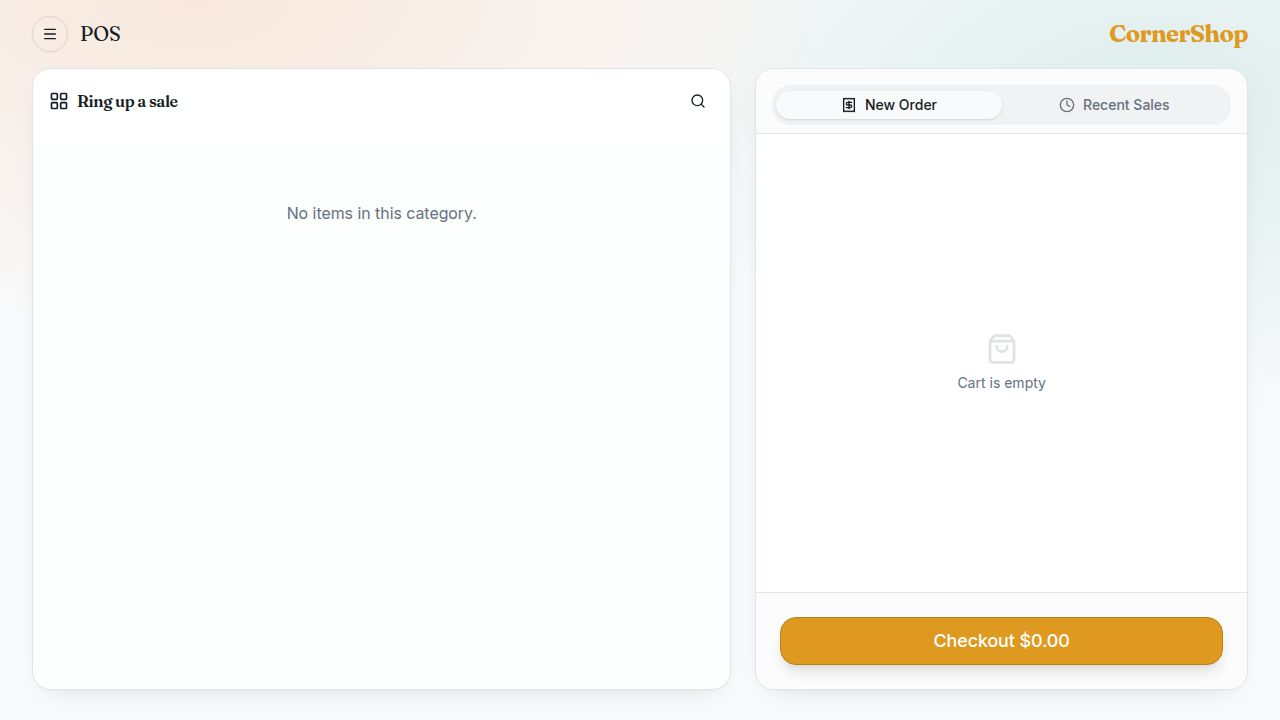
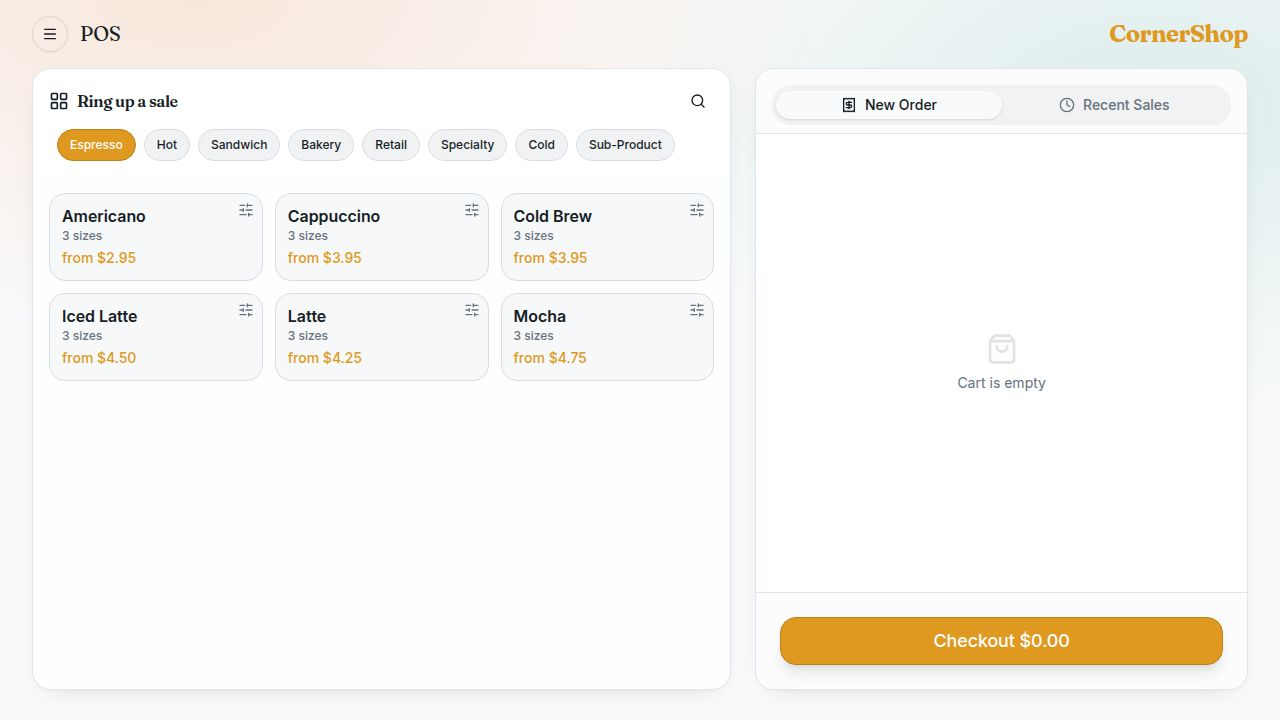
Display ongoing orders as stylized receipts with customer names and timestamps
Add a new `OrderReceipts` component to display ongoing orders at the top of the POS screen. This includes storing and displaying customer names and order timestamps. The backend schema and database migrations are updated to support these new fields, and a new `updateSale` function is added to the store for managing order closures.

Replit-Commit-Author: Agent
Replit-Commit-Session-Id: 9aa83789-9c17-410e-a3e4-f0fd4ca17b6d
Replit-Commit-Checkpoint-Type: full_checkpoint
Replit-Commit-Event-Id: f9f89423-a181-4096-9a3d-6fe7ab0dafe6
Replit-Commit-Screenshot-Url: https://storage.googleapis.com/screenshot-production-us-central1/4710a650-8e96-41ee-a11f-932c0bb5f92b/9aa83789-9c17-410e-a3e4-f0fd4ca17b6d/sK3vgJ8
Replit-Helium-Checkpoint-Created: true

diff --git a/client/src/components/order-receipts.tsx b/client/src/components/order-receipts.tsx
@@ -1,0 +1,166 @@
+import { useState } from "react";
+import { motion, AnimatePresence } from "framer-motion";
+import { X } from "lucide-react";
+import { Button } from "@/components/ui/button";
+import type { Sale } from "@/lib/store";
+import { format } from "date-fns";
+
+function formatMoney(cents: number) {
+  return new Intl.NumberFormat(undefined, {
+    style: "currency",
+    currency: "USD",
+  }).format(cents / 100);
+}
+
+function ReceiptTab({
+  sale,
+  index,
+  onClose,
+}: {
+  sale: Sale;
+  index: number;
+  onClose: (id: string) => void;
+}) {
+  const [expanded, setExpanded] = useState(false);
+
+  const label = `R${index + 1}`;
+  const namePreview = sale.customerName
+    ? sale.customerName.length > 5
+      ? sale.customerName.slice(0, 5) + "…"
+      : sale.customerName
+    : label;
+
+  return (
+    <div className="relative flex flex-col items-center" data-testid={`receipt-tab-${sale.id}`}>
+      <div className="w-10 h-3 bg-amber-700/80 rounded-b-sm shadow-sm z-10" />
+
+      <div className="w-[2px] h-2 bg-amber-900/40" />
+
+      <AnimatePresence mode="wait">
+        {!expanded ? (
+          <motion.button
+            key="collapsed"
+            initial={{ height: 0, opacity: 0 }}
+            animate={{ height: "auto", opacity: 1 }}
+            exit={{ height: 0, opacity: 0 }}
+            transition={{ duration: 0.2 }}
+            onClick={() => setExpanded(true)}
+            className="cursor-pointer group"
+            data-testid={`receipt-collapsed-${sale.id}`}
+          >
+            <div
+              className="relative bg-amber-50 border border-amber-200/60 shadow-md px-2.5 py-2 min-w-[56px] text-center"
+              style={{
+                clipPath: "polygon(0 0, 100% 0, 100% calc(100% - 6px), 85% 100%, 70% calc(100% - 4px), 55% 100%, 40% calc(100% - 4px), 25% 100%, 10% calc(100% - 6px), 0 calc(100% - 3px))",
+              }}
+            >
+              <p className="text-[10px] font-bold text-amber-900/70 tracking-wide">{label}</p>
+              <p className="text-[9px] text-amber-800/60 mt-0.5 font-medium truncate max-w-[52px]">{namePreview}</p>
+            </div>
+          </motion.button>
+        ) : (
+          <motion.div
+            key="expanded"
+            initial={{ height: 0, opacity: 0 }}
+            animate={{ height: "auto", opacity: 1 }}
+            exit={{ height: 0, opacity: 0 }}
+            transition={{ duration: 0.25, ease: "easeOut" }}
+            className="z-20"
+            data-testid={`receipt-expanded-${sale.id}`}
+          >
+            <div
+              className="relative bg-amber-50 border border-amber-200/60 shadow-lg w-[180px]"
+              style={{
+                clipPath: "polygon(0 0, 100% 0, 100% calc(100% - 8px), 90% 100%, 80% calc(100% - 5px), 70% 100%, 60% calc(100% - 5px), 50% 100%, 40% calc(100% - 5px), 30% 100%, 20% calc(100% - 5px), 10% 100%, 0 calc(100% - 8px))",
+              }}
+            >
+              <div className="px-3 pt-2 pb-1 border-b border-dashed border-amber-300/50">
+                <div className="flex items-center justify-between">
+                  <p className="text-xs font-bold text-amber-900">{label}</p>
+                  <button
+                    onClick={(e) => { e.stopPropagation(); setExpanded(false); }}
+                    className="text-amber-600 hover:text-amber-900 transition-colors"
+                    data-testid={`receipt-minimize-${sale.id}`}
+                  >
+                    <X className="h-3 w-3" />
+                  </button>
+                </div>
+                <p className="text-[11px] font-semibold text-amber-800 mt-0.5 truncate">
+                  {sale.customerName || "Guest"}
+                </p>
+                <p className="text-[9px] text-amber-600 mt-0.5">
+                  {format(sale.createdAt, "h:mm a")}
+                </p>
+              </div>
+
+              <div className="px-3 py-1.5 space-y-0.5 max-h-[120px] overflow-y-auto">
+                {sale.linesJson.map((line, i) => (
+                  <div key={i} className="flex justify-between text-[10px] text-amber-900/80">
+                    <span className="truncate flex-1 mr-1">
+                      {line.qty > 1 && `${line.qty}x `}{line.productName}
+                      {line.variantName && line.variantName !== line.productName && ` (${line.variantName})`}
+                    </span>
+                    <span className="font-medium shrink-0">{formatMoney(line.unitPrice * line.qty)}</span>
+                  </div>
+                ))}
+              </div>
+
+              <div className="px-3 py-1 border-t border-dashed border-amber-300/50">
+                <div className="flex justify-between text-[11px] font-bold text-amber-900">
+                  <span>Total</span>
+                  <span>{formatMoney(sale.totalCents)}</span>
+                </div>
+              </div>
+
+              <div className="px-3 pt-1 pb-4">
+                <Button
+                  size="sm"
+                  variant="destructive"
+                  className="w-full h-6 text-[10px] rounded-md"
+                  onClick={(e) => { e.stopPropagation(); onClose(sale.id); }}
+                  data-testid={`receipt-close-order-${sale.id}`}
+                >
+                  Close Order
+                </Button>
+              </div>
+            </div>
+          </motion.div>
+        )}
+      </AnimatePresence>
+    </div>
+  );
+}
+
+export default function OrderReceipts({
+  sales,
+  onCloseOrder,
+}: {
+  sales: Sale[];
+  onCloseOrder: (id: string) => void;
+}) {
+  const openOrders = sales
+    .filter(s => !s.closedAt && s.status === "completed")
+    .sort((a, b) => a.createdAt - b.createdAt);
+
+  if (openOrders.length === 0) return null;
+
+  return (
+    <div className="mb-3" data-testid="order-receipts-rail">
+      <div className="relative bg-gradient-to-b from-amber-900/90 to-amber-800/80 rounded-lg shadow-md px-3 pt-0 pb-0 min-h-[12px]">
+        <div className="absolute inset-x-0 top-0 h-[6px] bg-amber-950/30 rounded-t-lg" />
+        <div className="absolute inset-x-0 top-[6px] h-[3px] bg-amber-700/20" />
+      </div>
+
+      <div className="flex gap-3 px-2 overflow-x-auto scrollbar-hide -mt-[1px]">
+        {openOrders.map((sale, i) => (
+          <ReceiptTab
+            key={sale.id}
+            sale={sale}
+            index={i}
+            onClose={onCloseOrder}
+          />
+        ))}
+      </div>
+    </div>
+  );
+}

diff --git a/client/src/pages/pos.tsx b/client/src/pages/pos.tsx
@@ -12,6 +12,7 @@ import { Tabs, TabsContent, TabsList, TabsTrigger } from "@/components/ui/tabs";
 import { useToast } from "@/hooks/use-toast";
 import { useStore, type CartItem } from "@/lib/store";
 import ModifierSelector, { type SelectedModifier } from "@/components/modifier-selector";
+import OrderReceipts from "@/components/order-receipts";
 import { format } from "date-fns";
 
 function formatMoney(cents: number) {
@@ -29,7 +30,7 @@ export default function PosPage() {
   const { toast } = useToast();
   const {
     products, variants, inventory, bom, sales, modifierGroups, modifiers,
-    productModifierLinks, productModifierScaleFactors, addSale, adjustInventory, integrations, isLoading,
+    productModifierLinks, productModifierScaleFactors, addSale, updateSale, adjustInventory, integrations, isLoading,
   } = useStore();
 
   const [taxRatePct, setTaxRatePct] = useState(8.25);
@@ -42,6 +43,8 @@ export default function PosPage() {
 
   const [sizeSelectorOpen, setSizeSelectorOpen] = useState(false);
   const [sizeSelectorProduct, setSizeSelectorProduct] = useState<typeof products[0] | null>(null);
+
+  const [customerName, setCustomerName] = useState("");
 
   const [searchOpen, setSearchOpen] = useState(false);
   const [searchQuery, setSearchQuery] = useState("");
@@ -210,6 +213,11 @@ export default function PosPage() {
   const taxCents = Math.round((subtotalCents * taxRatePct) / 100);
   const totalCents = subtotalCents + taxCents;
 
+  function handleCloseOrder(saleId: string) {
+    updateSale(saleId, { closedAt: Date.now() });
+    toast({ title: "Order closed" });
+  }
+
   function handleConfirmOrder() {
     if (cart.length === 0) {
       toast({ title: "Cart is empty", description: "Add items first." });
@@ -311,6 +319,8 @@ export default function PosPage() {
       totalCents,
       paymentMethod: paymentType,
       status: "completed",
+      customerName: customerName.trim(),
+      closedAt: null,
       linesJson: cart.map(c => {
         const prod = products.find(p => p.id === c.productId);
         const vari = variants.find(v => v.id === c.variantId);
@@ -336,6 +346,7 @@ export default function PosPage() {
 
     toast({ title: "Sale recorded", description: `${formatMoney(totalCents)} • ${paymentType}` });
     clearCart();
+    setCustomerName("");
     setIsPaymentOpen(false);
   }
 
@@ -350,6 +361,7 @@ export default function PosPage() {
   return (
     <motion.div initial={{ opacity: 0, y: 10 }} animate={{ opacity: 1, y: 0 }} transition={{ duration: 0.35 }}>
       <AppShell title="POS">
+        <OrderReceipts sales={sales} onCloseOrder={handleCloseOrder} />
         <div className="grid gap-6 lg:grid-cols-12 h-[calc(100vh-90px)] pb-2">
           <Card className="border bg-card shadow-soft lg:col-span-7 flex flex-col overflow-hidden h-full">
             <CardHeader className="pb-3 flex-shrink-0 pt-4 px-4">
@@ -670,6 +682,16 @@ export default function PosPage() {
               <DialogTitle>Confirm Payment</DialogTitle>
             </DialogHeader>
             <div className="py-6 flex flex-col gap-6">
+              <div>
+                <label className="text-xs text-muted-foreground uppercase tracking-wider mb-1.5 block">Name on Order</label>
+                <Input
+                  value={customerName}
+                  onChange={e => setCustomerName(e.target.value)}
+                  placeholder="Customer name (optional)"
+                  className="rounded-xl"
+                  data-testid="input-customer-name"
+                />
+              </div>
               <div className="text-center">
                 <p className="text-sm text-muted-foreground uppercase tracking-wider">Total Due</p>
                 <p className="text-4xl font-serif mt-1">{formatMoney(totalCents)}</p>

diff --git a/client/src/lib/store.tsx b/client/src/lib/store.tsx
@@ -92,6 +92,7 @@ type StoreContextType = {
   updateTimePunch: (id: string, data: Partial<TimePunch>) => void;
 
   addSale: (data: Partial<Sale>) => void;
+  updateSale: (id: string, data: Partial<Sale>) => void;
 
   createInvoiceWithLineItems: (invoiceData: Partial<Invoice>, lineItems: Partial<InvoiceLineItem>[]) => Promise<any>;
   createInvoiceLineItem: (data: Partial<InvoiceLineItem>) => Promise<any>;
@@ -189,6 +190,7 @@ export function StoreProvider({ children }: { children: React.ReactNode }) {
   const updateTimePunch = useCallback((id: string, data: Partial<TimePunch>) => { storage.updateTimePunch(id, data); }, []);
 
   const addSale = useCallback((data: Partial<Sale>) => { storage.createSale(data); }, []);
+  const updateSale = useCallback((id: string, data: Partial<Sale>) => { storage.updateSale(id, data); }, []);
 
   const createInvoiceWithLineItems = useCallback((invoiceData: Partial<Invoice>, lineItems: Partial<InvoiceLineItem>[]) => storage.createInvoiceWithLineItems(invoiceData, lineItems), []);
   const createInvoiceLineItem = useCallback((data: Partial<InvoiceLineItem>) => storage.createInvoiceLineItem(data), []);
@@ -264,6 +266,7 @@ export function StoreProvider({ children }: { children: React.ReactNode }) {
     updateTimePunch,
 
     addSale,
+    updateSale,
 
     createInvoiceWithLineItems,
     createInvoiceLineItem,

diff --git a/client/src/lib/db.ts b/client/src/lib/db.ts
@@ -133,6 +133,8 @@ export interface Sale {
   paymentMethod: string;
   status: string;
   linesJson: SaleLine[];
+  customerName: string;
+  closedAt: number | null;
   updatedAt: number;
   deletedAt: number | null;
 }
@@ -338,6 +340,13 @@ class PosDatabase extends Dexie {
         if (item.lastPurchasePrice === undefined) {
           item.lastPurchasePrice = null;
         }
+      });
+    });
+
+    this.version(6).stores({}).upgrade(async tx => {
+      await tx.table("sales").toCollection().modify(sale => {
+        if (sale.customerName === undefined) sale.customerName = "";
+        if (sale.closedAt === undefined) sale.closedAt = sale.createdAt;
       });
     });
   }

diff --git a/client/src/lib/local-storage.ts b/client/src/lib/local-storage.ts
@@ -368,11 +368,18 @@ export const storage = {
       paymentMethod: data.paymentMethod!,
       status: data.status!,
       linesJson: data.linesJson!,
+      customerName: data.customerName ?? "",
+      closedAt: data.closedAt ?? null,
       updatedAt: data.updatedAt ?? now,
       deletedAt: null,
     };
     await db.sales.put(sale);
     return sale;
+  },
+
+  async updateSale(id: string, data: Partial<Sale>): Promise<Sale | undefined> {
+    await db.sales.update(id, { ...data, updatedAt: Date.now() });
+    return db.sales.get(id);
   },
 
   async getInvoices(): Promise<Invoice[]> {

diff --git a/shared/schema.ts b/shared/schema.ts
@@ -164,6 +164,8 @@ export type Sale = {
   paymentMethod: string;
   status: string;
   linesJson: SaleLine[];
+  customerName: string;
+  closedAt: number | null;
   updatedAt: number;
   deletedAt: number | null;
 };

diff --git a/replit.md b/replit.md
@@ -24,7 +24,7 @@ All entities include `updatedAt: number` (epoch ms timestamp) and `deletedAt: nu
 - `billOfMaterials` (BomEntry) — links variants/modifiers to inventory items with quantity deduction and scale factors
 - `employees` — staff with role, payRate, and PIN access
 - `timePunches` — clock in/out records
-- `sales` — completed transactions with native `linesJson: SaleLine[]`
+- `sales` — completed transactions with native `linesJson: SaleLine[]`, `customerName`, and `closedAt` (null = open order)
 
 ### Server-side (PostgreSQL / Drizzle)
 - `clients` — registered POS terminal instances (id, code, name, created_at)
@@ -64,11 +64,11 @@ All entities include `updatedAt: number` (epoch ms timestamp) and `deletedAt: nu
 - **Scale factor keys use variant IDs**, not variant names
 - **All stringified JSON fields have been eliminated** — native objects/arrays throughout
 - **SaleLine includes denormalized names** captured at sale time
-- **Dexie migration history**: v1 (initial), v2, v3 (JSON parsing), v4 (rekey scale factors), v5 (add updatedAt/deletedAt indexes)
+- **Dexie migration history**: v1 (initial), v2, v3 (JSON parsing), v4 (rekey scale factors), v5 (add updatedAt/deletedAt indexes), v6 (add customerName/closedAt to sales)
 - **productModifierGroups sync uses `${productId}::${modifierGroupId}` as recordId** for compound key serialization
 
 ## Key Files
-- `client/src/lib/db.ts` — Dexie.js database definition with IndexedDB schema and migrations (v1–v5)
+- `client/src/lib/db.ts` — Dexie.js database definition with IndexedDB schema and migrations (v1–v6)
 - `client/src/lib/local-storage.ts` — CRUD storage layer for all entities (with soft deletes and updatedAt stamping)
 - `client/src/lib/store.tsx` — React context provider using Dexie live queries (filters soft-deleted records)
 - `client/src/lib/sync.ts` — Client-side sync service (syncCategory, syncAll, startAutoSync, stopAutoSync)
